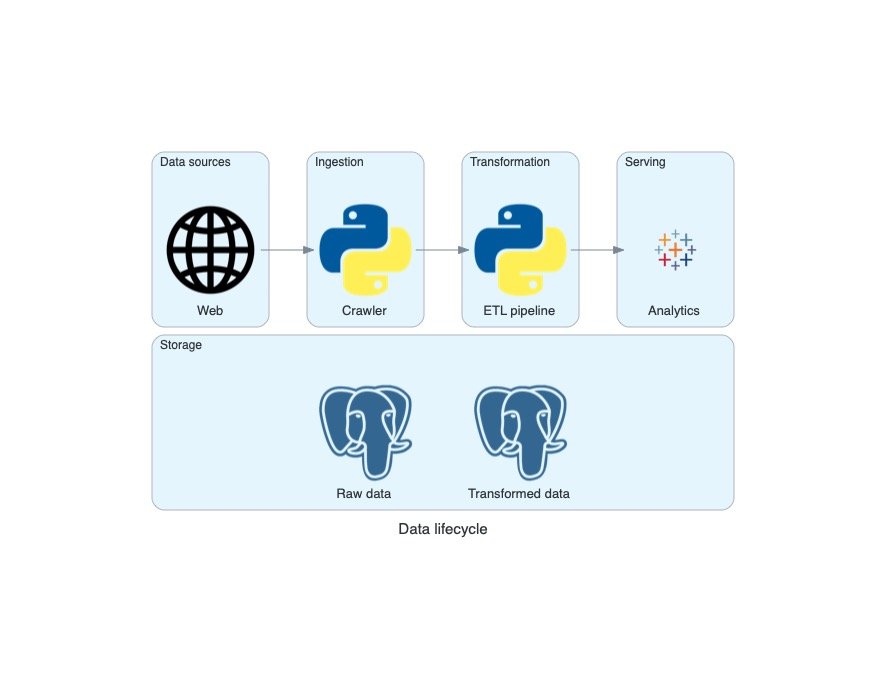
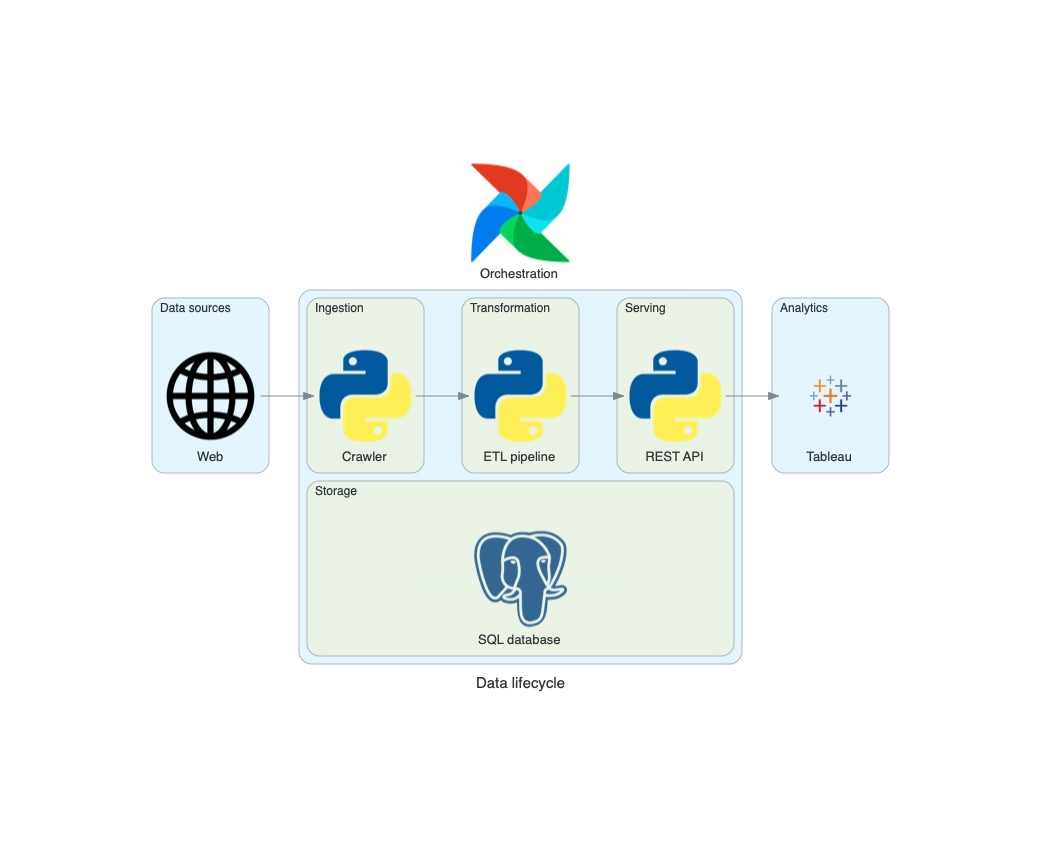
Modify diagram with Airflow

Changed region(s): [[0.1219, 0.1834, 0.8533, 0.8253]]

diff --git a/project_diagrams/lifecycle_diagram.py b/project_diagrams/lifecycle_diagram.py
@@ -3,31 +3,40 @@ from diagrams.onprem.database import Postgresql
 from diagrams.onprem.workflow import Airflow
 from diagrams.programming.language import Python
 from diagrams.onprem.analytics import Tableau
-from diagrams.generic.database import SQL
 from diagrams.custom import Custom
 from diagrams.generic.blank import Blank
 
 
 with Diagram(name='Data lifecycle', outformat="jpg", show=False):
 
-    with Cluster('Storage'):
-        raw = Postgresql('Raw data')
-        processed = Postgresql('Transformed data')
-        b1 = Blank('')
-        b2 = Blank('')
-        e = Edge(color='#E0F4FC')
-        b1 - e - raw - e - processed - e - b2
-
     with Cluster('Data sources'):
         web = Custom('Web', 'web.png')
 
-    with Cluster('Ingestion'):
-        crawler = Python('Crawler')
+    with Cluster(''):
+        with Cluster('Storage'):
+            db = Postgresql('SQL database')
+            b1 = Blank('')
+            b2 = Blank('')
+            e = Edge(color='#E0F4FC')
+            b1 - e - db - e - b2
 
-    with Cluster('Transformation'):
-        etl = Python('ETL pipeline')
+        with Cluster('Ingestion'):
+            crawler = Python('Crawler')
 
-    with Cluster('Serving'):
-        viz = Tableau('Analytics')
+        with Cluster('Transformation'):
+            etl = Python('ETL pipeline')
 
-    web >> crawler >> etl >> viz
+        with Cluster('Serving'):
+            api = Python('REST API')
+
+    with Cluster('Analytics'):
+        viz = Tableau('Tableau')
+
+    airflow = Airflow('Orchestration')
+    b3 = Blank('')
+    b4 = Blank('')
+    b5 = Blank('')
+    e2 = Edge(color='white')
+    b3 - e2 - b4 - e2 - airflow - e2 - b5
+
+    web >> crawler >> etl >> api >> viz
